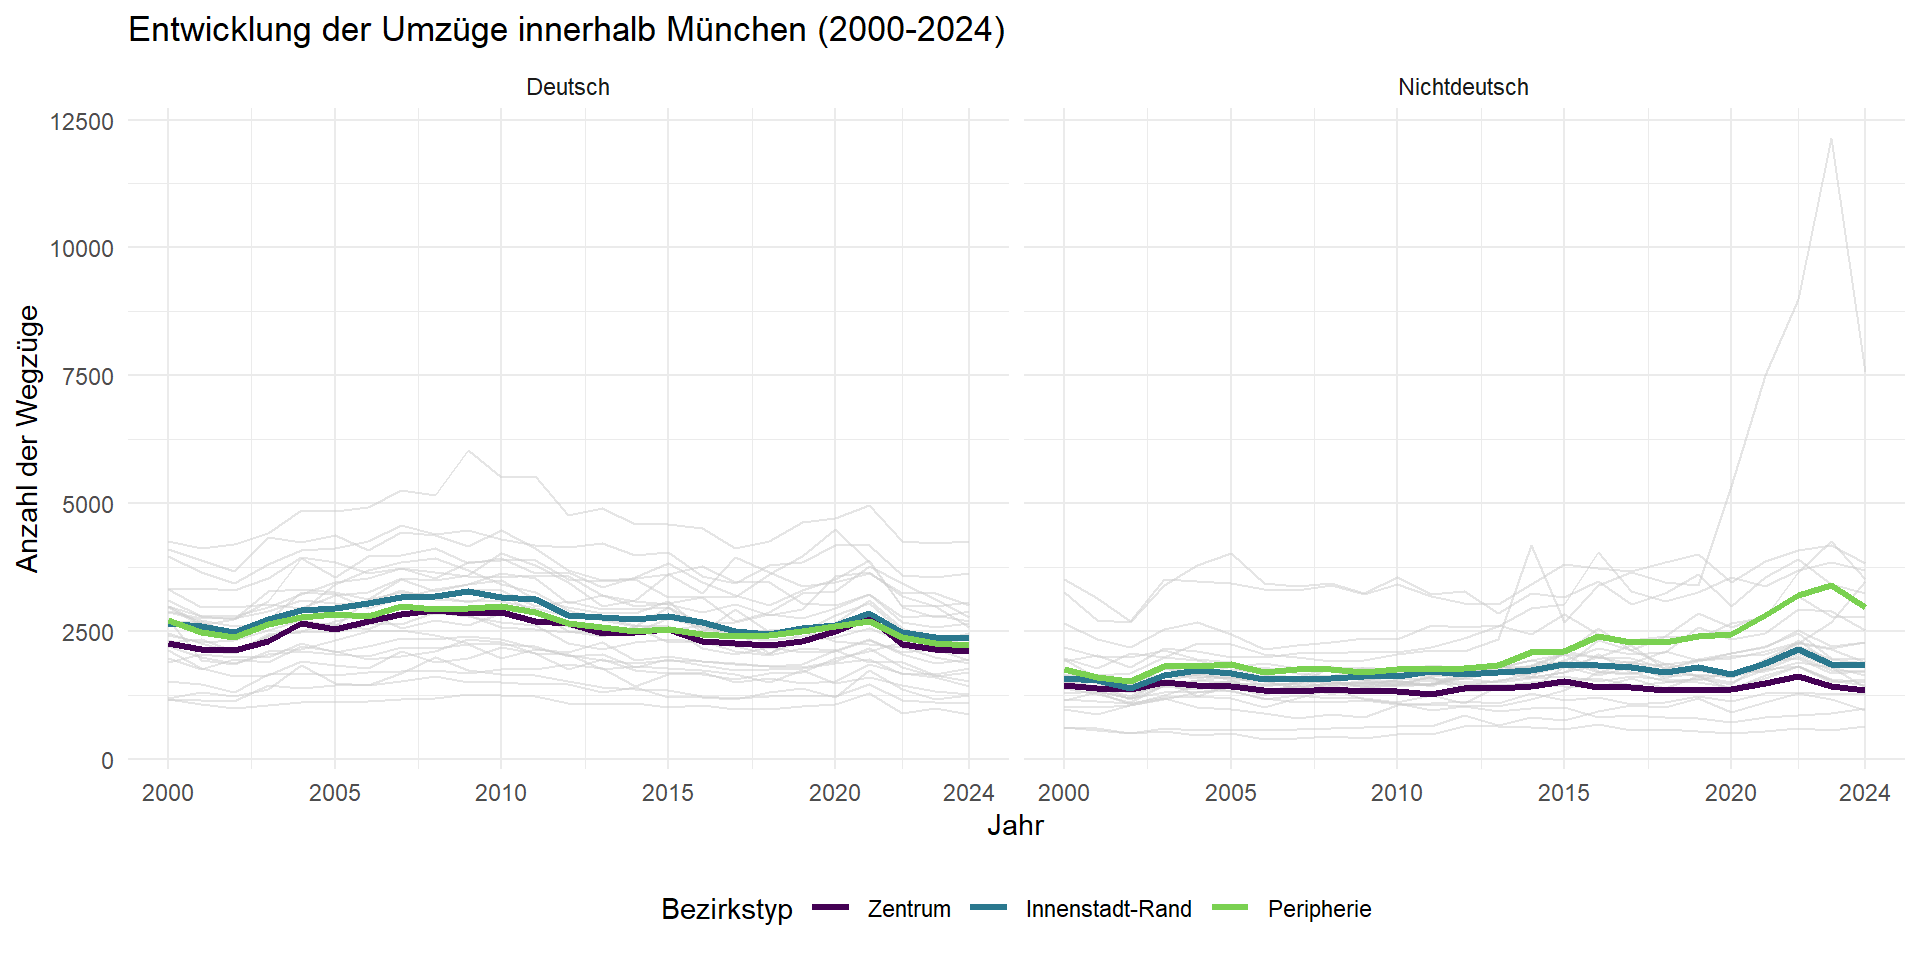
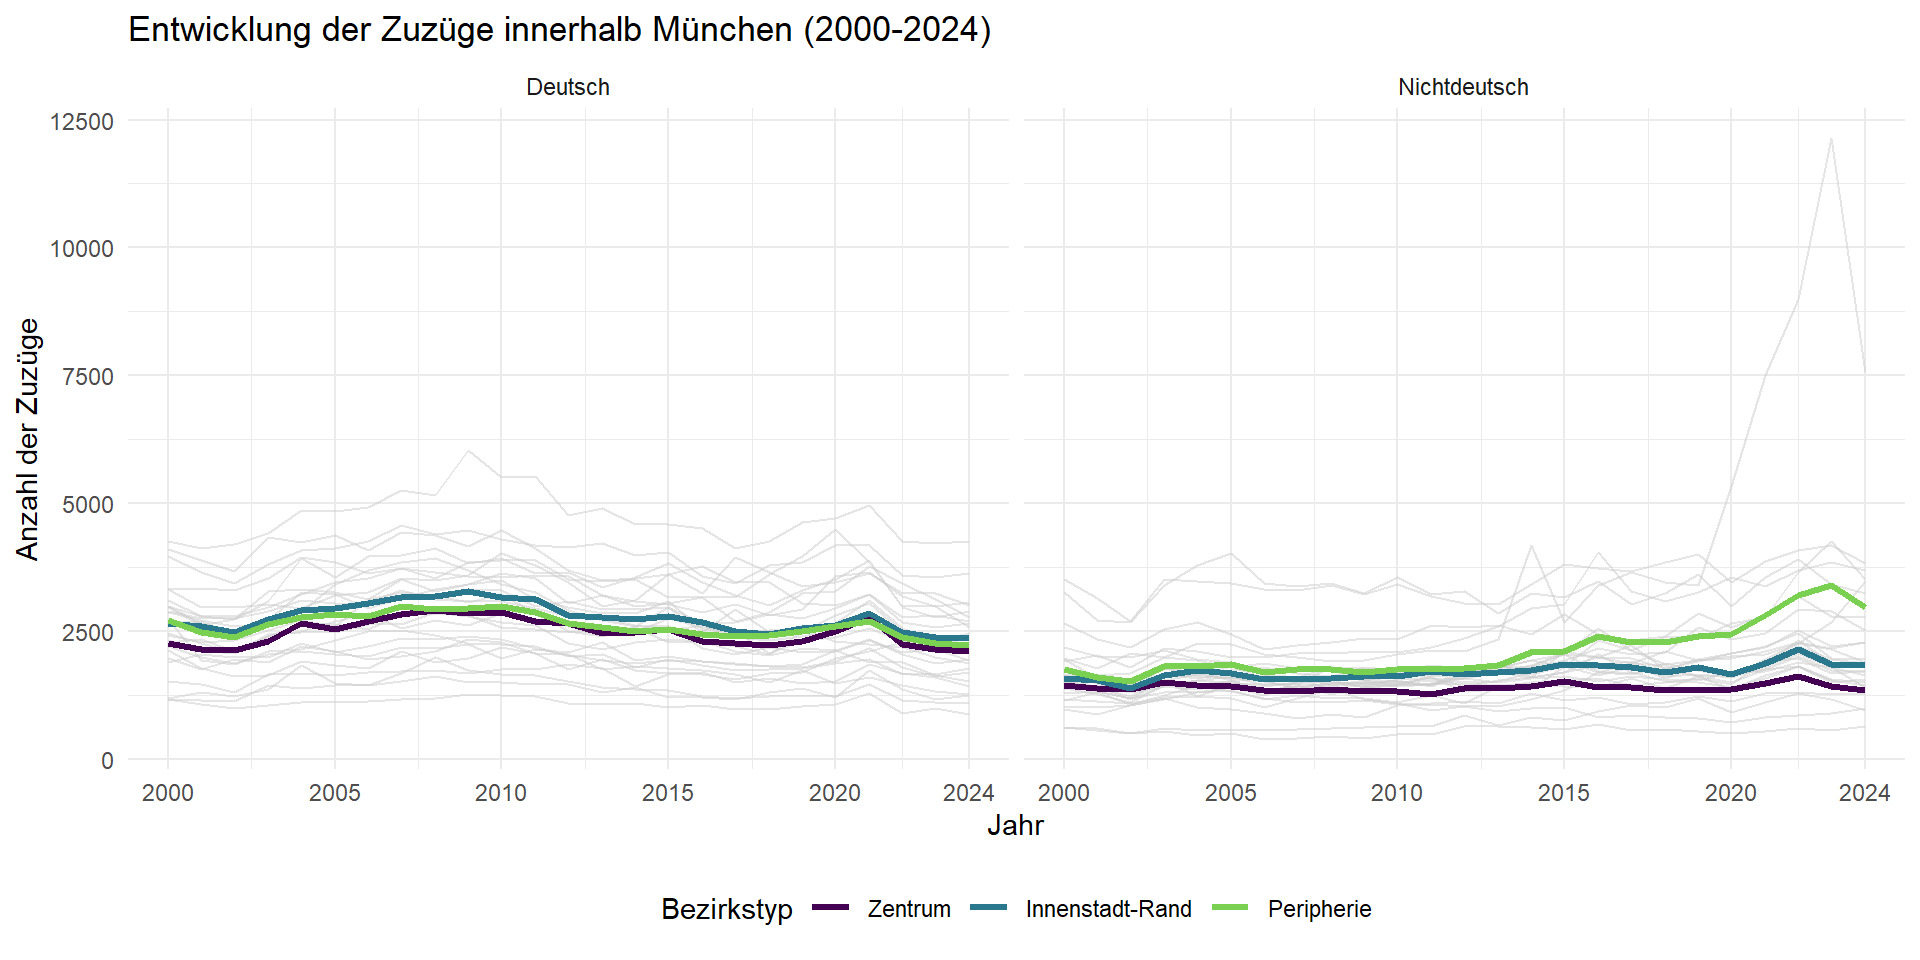
Final

Changed region(s): [[0.1875, 0.0, 0.5312, 0.0625], [0.0, 0.3125, 0.0312, 0.5938]]

diff --git a/presentation.html b/presentation.html
@@ -6,8 +6,8 @@
 <script src="presentation_files/libs/quarto-html/tippy.umd.min.js"></script>
 <link href="presentation_files/libs/quarto-html/tippy.css" rel="stylesheet">
 <link href="presentation_files/libs/quarto-html/light-border.css" rel="stylesheet">
-<link href="presentation_files/libs/quarto-html/quarto-syntax-highlighting-7b89279ff1a6dce999919e0e67d4d9ec.css" rel="stylesheet" id="quarto-text-highlighting-styles"><meta charset="utf-8">
-  <meta name="generator" content="quarto-1.8.25">
+<link href="presentation_files/libs/quarto-html/quarto-syntax-highlighting-37eea08aefeeee20ff55810ff984fec1.css" rel="stylesheet" id="quarto-text-highlighting-styles"><meta charset="utf-8">
+  <meta name="generator" content="quarto-1.7.32">
 
   <meta name="author" content="Heinz Calderón, Christian Lex, Dennis Ley, Haoyang Yang">
   <title>Wohnungsmigration in München</title>
@@ -29,7 +29,7 @@
       vertical-align: middle;
     }
   </style>
-  <link rel="stylesheet" href="presentation_files/libs/revealjs/dist/theme/quarto-97e690a65df25032e636c45403dbb044.css">
+  <link rel="stylesheet" href="presentation_files/libs/revealjs/dist/theme/quarto-60426cfa0718c280d4a950e35f176248.css">
   <link href="presentation_files/libs/revealjs/plugin/quarto-line-highlight/line-highlight.css" rel="stylesheet">
   <link href="presentation_files/libs/revealjs/plugin/reveal-menu/menu.css" rel="stylesheet">
   <link href="presentation_files/libs/revealjs/plugin/reveal-menu/quarto-menu.css" rel="stylesheet">
@@ -164,7 +164,7 @@ Heinz Calderón, Christian Lex, Dennis Ley, Haoyang Yang
 <h2>Datenüberblick</h2>
 <div class="cell">
 <div class="cell-output-display">
-<table class="caption-top">
+<table class="caption-top" data-quarto-postprocess="true">
 <caption>Säule 1: Mobilitätsdaten (Auszug)</caption>
 <thead>
 <tr class="header">
@@ -194,7 +194,7 @@ Heinz Calderón, Christian Lex, Dennis Ley, Haoyang Yang
 </table>
 </div>
 <div class="cell-output-display">
-<table class="caption-top">
+<table class="caption-top" data-quarto-postprocess="true">
 <caption>Säule 2: Bevölkerungsdichte (Auszug)</caption>
 <thead>
 <tr class="header">
@@ -304,14 +304,22 @@ Heinz Calderón, Christian Lex, Dennis Ley, Haoyang Yang
 <li><span style="opacity: 0.25;">Zusammenfassung und Ausblick</span></li>
 </ol>
 </section>
-<section id="zuzüge" class="slide level2">
-<h2>Zuzüge</h2>
+<section id="zuzüge-von-außen" class="slide level2">
+<h2>Zuzüge (von außen)</h2>
 
 <img data-src="presentation_files/figure-revealjs/plot_zuzuege-1.png" class="quarto-figure quarto-figure-center r-stretch" width="2100"></section>
-<section id="zuzüge-1" class="slide level2">
-<h2>Zuzüge</h2>
+<section id="zuzüge-von-außen-1" class="slide level2">
+<h2>Zuzüge (von außen)</h2>
 
 <img data-src="presentation_files/figure-revealjs/plot_zuzuege_highlight-1.png" class="quarto-figure quarto-figure-center r-stretch" width="2100"></section>
+<section id="zuzüge-innerhalb" class="slide level2">
+<h2>Zuzüge (innerhalb)</h2>
+
+<img data-src="presentation_files/figure-revealjs/plot_umzuege-1.png" class="quarto-figure quarto-figure-center r-stretch" width="2100"></section>
+<section id="zuzüge-innerhalb-1" class="slide level2">
+<h2>Zuzüge (innerhalb)</h2>
+
+<img data-src="presentation_files/figure-revealjs/plot_umzuege_highlight-1.png" class="quarto-figure quarto-figure-center r-stretch" width="2100"></section>
 <section id="agenda-2" class="slide level2">
 <h2>Agenda</h2>
 <ol type="1">
@@ -332,11 +340,7 @@ Heinz Calderón, Christian Lex, Dennis Ley, Haoyang Yang
 <section id="wegzüge-1" class="slide level2">
 <h2>Wegzüge</h2>
 
-<img data-src="presentation_files/figure-revealjs/plot_umzuege-1.png" class="quarto-figure quarto-figure-center r-stretch" width="2100"></section>
-<section id="wegzüge-2" class="slide level2">
-<h2>Wegzüge</h2>
-
-<img data-src="presentation_files/figure-revealjs/plot_umzuege_highlight-1.png" class="quarto-figure quarto-figure-center r-stretch" width="2100"></section>
+<img data-src="presentation_files/figure-revealjs/plot_bar_relativ-1.png" class="quarto-figure quarto-figure-center r-stretch" width="2100"></section>
 <section id="agenda-3" class="slide level2">
 <h2>Agenda</h2>
 <ol type="1">
@@ -361,10 +365,6 @@ Heinz Calderón, Christian Lex, Dennis Ley, Haoyang Yang
 <section id="bevölkerungsentwicklung-2" class="slide level2">
 <h2>Bevölkerungsentwicklung</h2>
 
-<img data-src="presentation_files/figure-revealjs/plot_karte-1.png" class="quarto-figure quarto-figure-center r-stretch" width="2100"></section>
-<section id="bevölkerungsentwicklung-3" class="slide level2">
-<h2>Bevölkerungsentwicklung</h2>
-
 <img data-src="presentation_files/figure-revealjs/plot_vergleich-1.png" class="quarto-figure quarto-figure-center r-stretch" width="2100"></section>
 <section id="agenda-4" class="slide level2">
 <h2>Agenda</h2>
@@ -381,16 +381,12 @@ Heinz Calderón, Christian Lex, Dennis Ley, Haoyang Yang
 </section>
 <section id="zusammenfassung" class="slide level2">
 <h2>Zusammenfassung</h2>
-<p><strong>Limitation</strong>: Daten ab Jahr 2000 zur Analyse verfügbar</p>
-<p><strong><em>Deutsche Staatsangehörige</em></strong>: Weitestgehend stabiles Niveau mit leicht degressiver Tendenz.<br>
-<strong>Nicht-deutsche Staatsangehörige</strong>: Hohe Volatilität bei gleichzeitigem Anstieg des durchschnittlichen Zuzugsniveaus.<br>
-<strong>Wegzüge</strong>: Höhere Abwanderungsdynamik (binnen und außen) in der Peripherie im Vergleich zu zentralen Lagen.</p>
-</section>
-<section id="zusammenfassung-1" class="slide level2">
-<h2>Zusammenfassung</h2>
-<p><strong>Trend-Konsistenz</strong>: Gleichbleibendes Verteilungsmuster bei Umzügen innerhalb Münchens und Fortzügen aus der Stadt.<br>
-<strong>Bevölkerungswachstum</strong>: Kontinuierlicher Anstieg in der Peripherie bei gleichzeitiger Stagnation im Zentrum und Innenstadt-Rand.<br>
-<strong>Besiedlungsdichte</strong>: Flächendeckender Anstieg der Einwohner pro <span class="math inline">\(km^2\)</span> über den gesamten Untersuchungszeitraum.</p>
+<p><strong>Limitation</strong>: Daten basieren auf 2 Datasets ab Jahr 2000 und Wechselmatrizen ab 2005</p>
+<ol type="1">
+<li><p>Entwicklung der Zuzüge der 25 Münchner Stadtbezirke (Deutsch vs.&nbsp;Nichtdeutsch)</p></li>
+<li><p>Entwicklung der Wegzüge der 25 Münchner Stadtbezirke (Innen vs.&nbsp;Außen)</p></li>
+<li><p>Entwicklung der Bevölkerungsdichte <br> (Einwohner pro <span class="math inline">\(km^2\)</span>)</p></li>
+</ol>
 </section>
 <section id="ausblick" class="slide level2">
 <h2>Ausblick</h2>
@@ -404,8 +400,24 @@ Heinz Calderón, Christian Lex, Dennis Ley, Haoyang Yang
 <div style="font-size: 0.4em; color: grey; text-align: left;">
 <p>Quelle: <a href="https://stadt.muenchen.de/rathaus/projekte/stadtplanung.html">muenchen.de</a>, <a href="https://www.bayerische-staatszeitung.de/staatszeitung/bauen/detailansicht-bauen/artikel/16-900-wohnungen-fehlen.html#topPosition">BZS</a></p>
 </div>
-
 </section>
+<section id="anhang" class="slide level2">
+<h2>Anhang</h2>
+
+<img data-src="presentation_files/figure-revealjs/boxplot_typ_um-1.png" class="quarto-figure quarto-figure-center r-stretch" width="2100"></section>
+<section id="anhang-1" class="slide level2">
+<h2>Anhang</h2>
+
+<img data-src="presentation_files/figure-revealjs/boxplot_dichte_um-1.png" class="quarto-figure quarto-figure-center r-stretch" width="2100"></section>
+<section id="anhang-2" class="slide level2">
+<h2>Anhang</h2>
+
+<img data-src="presentation_files/figure-revealjs/boxplot_himmel_um-1.png" class="quarto-figure quarto-figure-center r-stretch" width="2100"></section>
+<section id="anhang-3" class="slide level2">
+<h2>Anhang</h2>
+
+
+<img data-src="presentation_files/figure-revealjs/plot_sankey_final-1.png" class="quarto-figure quarto-figure-center r-stretch" width="2100"></section>
     </div>
   <div class="quarto-auto-generated-content" style="display: none;">
 <p><img src="Output/PresentationBilder/LMU_Logo.svg" class="slide-logo"></p>
@@ -596,7 +608,7 @@ Heinz Calderón, Christian Lex, Dennis Ley, Haoyang Yang
         margin: 0.1,
 
         math: {
-          mathjax: 'https://cdn.jsdelivr.net/npm/mathjax@2.7.9/MathJax.js',
+          mathjax: 'https://cdnjs.cloudflare.com/ajax/libs/mathjax/2.7.9/MathJax.js',
           config: 'TeX-AMS_HTML-full',
           tex2jax: {
             inlineMath: [['\\(','\\)']],
@@ -746,14 +758,13 @@ Heinz Calderón, Christian Lex, Dennis Ley, Haoyang Yang
           e.clearSelection();
         }
         const getTextToCopy = function(trigger) {
-          const outerScaffold = trigger.parentElement.cloneNode(true);
-          const codeEl = outerScaffold.querySelector('code');
-          for (const childEl of codeEl.children) {
-            if (isCodeAnnotation(childEl)) {
-              childEl.remove();
+            const codeEl = trigger.previousElementSibling.cloneNode(true);
+            for (const childEl of codeEl.children) {
+              if (isCodeAnnotation(childEl)) {
+                childEl.remove();
+              }
             }
-          }
-          return codeEl.innerText;
+            return codeEl.innerText;
         }
         const clipboard = new window.ClipboardJS('.code-copy-button:not([data-in-quarto-modal])', {
           text: getTextToCopy
